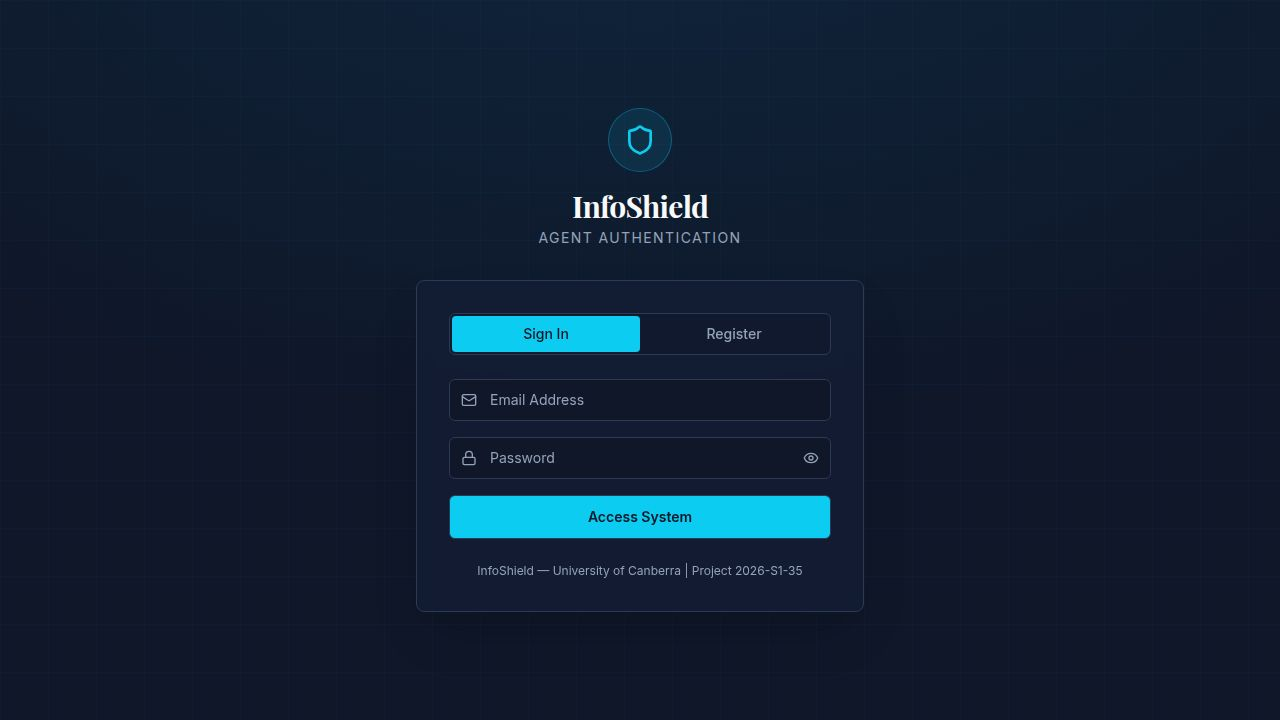
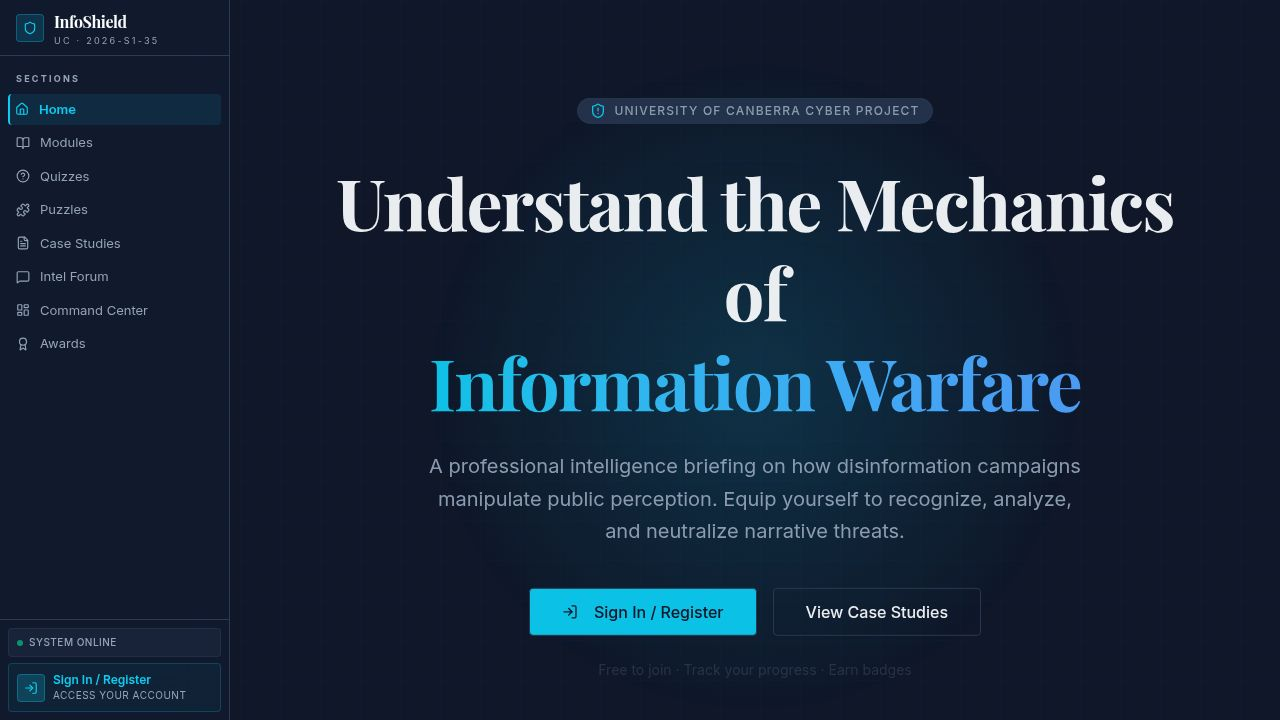
Improve site navigation and user experience after login and logout
Introduces ProtectedRoute and LoginRoute components to manage public and protected routes, enhances the logout flow to redirect to the homepage, and updates the UI to display sign-in/register buttons conditionally based on user authentication status.

Replit-Commit-Author: Agent
Replit-Commit-Session-Id: bca3b0d5-7d97-47e2-96dc-7218d6a71f5b
Replit-Commit-Checkpoint-Type: full_checkpoint
Replit-Commit-Event-Id: e5b60c7b-d891-45f0-8d0b-c776ffcf365e
Replit-Commit-Screenshot-Url: https://storage.googleapis.com/screenshot-production-us-central1/49ae401a-f266-451a-bbe1-749c253e7e28/bca3b0d5-7d97-47e2-96dc-7218d6a71f5b/whDLsp3
Replit-Helium-Checkpoint-Created: true

diff --git a/artifacts/infoshield/src/components/layout.tsx b/artifacts/infoshield/src/components/layout.tsx
@@ -13,6 +13,7 @@ import {
   Puzzle,
   LogOut,
   ChevronDown,
+  LogIn,
 } from "lucide-react";
 import { useState } from "react";
 import { motion, AnimatePresence } from "framer-motion";
@@ -33,9 +34,16 @@ const NAV_ITEMS = [
 function UserMenu() {
   const { user, logout } = useAuth();
   const [open, setOpen] = useState(false);
+  const [, navigate] = useLocation();
   if (!user) return null;
 
   const initials = user.displayName.split(" ").map((w) => w[0]).slice(0, 2).join("").toUpperCase();
+
+  const handleLogout = async () => {
+    setOpen(false);
+    await logout();
+    navigate("/");
+  };
 
   return (
     <div className="relative">
@@ -66,7 +74,7 @@ function UserMenu() {
               <p className="text-[10px] text-muted-foreground truncate">{user.email}</p>
             </div>
             <button
-              onClick={() => { logout(); setOpen(false); }}
+              onClick={handleLogout}
               className="flex items-center gap-2 w-full px-3 py-2 text-xs text-muted-foreground hover:text-destructive hover:bg-destructive/5 transition-colors"
             >
               <LogOut className="w-3.5 h-3.5" />
@@ -80,11 +88,17 @@ function UserMenu() {
 }
 
 export function Layout({ children }: { children: React.ReactNode }) {
-  const [location] = useLocation();
+  const [location, navTo] = useLocation();
   const [mobileMenuOpen, setMobileMenuOpen] = useState(false);
   const { user, logout } = useAuth();
 
   const initials = user?.displayName.split(" ").map((w) => w[0]).slice(0, 2).join("").toUpperCase() ?? "?";
+
+  const handleMobileLogout = async () => {
+    setMobileMenuOpen(false);
+    await logout();
+    navTo("/");
+  };
 
   return (
     <div className="min-h-[100dvh] flex w-full bg-background text-foreground overflow-hidden">
@@ -138,7 +152,21 @@ export function Layout({ children }: { children: React.ReactNode }) {
               <span className="text-[10px] font-medium text-muted-foreground uppercase tracking-wider">System Online</span>
             </div>
           </div>
-          <UserMenu />
+          {user ? (
+            <UserMenu />
+          ) : (
+            <Link href="/login">
+              <button className="flex items-center gap-2 px-2 py-2 rounded-sm hover:bg-primary/10 transition-colors w-full text-left group border border-primary/20 bg-primary/5">
+                <div className="w-7 h-7 rounded-sm bg-primary/20 border border-primary/30 flex items-center justify-center shrink-0">
+                  <LogIn className="w-3.5 h-3.5 text-primary" />
+                </div>
+                <div className="flex-1 min-w-0">
+                  <p className="text-xs font-semibold text-primary">Sign In / Register</p>
+                  <p className="text-[10px] text-muted-foreground uppercase tracking-wider">Access your account</p>
+                </div>
+              </button>
+            </Link>
+          )}
         </div>
       </aside>
 
@@ -215,13 +243,22 @@ export function Layout({ children }: { children: React.ReactNode }) {
               </nav>
 
               <div className="p-3 border-t border-border">
-                <button
-                  onClick={() => { logout(); setMobileMenuOpen(false); }}
-                  className="flex items-center gap-3 w-full px-4 py-2.5 rounded-sm text-sm text-muted-foreground hover:text-destructive hover:bg-destructive/5 transition-colors"
-                >
-                  <LogOut className="w-4 h-4" />
-                  Sign Out
-                </button>
+                {user ? (
+                  <button
+                    onClick={handleMobileLogout}
+                    className="flex items-center gap-3 w-full px-4 py-2.5 rounded-sm text-sm text-muted-foreground hover:text-destructive hover:bg-destructive/5 transition-colors"
+                  >
+                    <LogOut className="w-4 h-4" />
+                    Sign Out
+                  </button>
+                ) : (
+                  <Link href="/login" onClick={() => setMobileMenuOpen(false)}>
+                    <button className="flex items-center gap-3 w-full px-4 py-2.5 rounded-sm text-sm text-primary font-semibold bg-primary/10 border border-primary/20 hover:bg-primary/20 transition-colors">
+                      <LogIn className="w-4 h-4" />
+                      Sign In / Register
+                    </button>
+                  </Link>
+                )}
               </div>
             </motion.div>
           </>

diff --git a/artifacts/infoshield/src/App.tsx b/artifacts/infoshield/src/App.tsx
@@ -1,4 +1,4 @@
-import { Switch, Route, Router as WouterRouter } from "wouter";
+import { Switch, Route, Router as WouterRouter, useLocation } from "wouter";
 import { QueryClient, QueryClientProvider } from "@tanstack/react-query";
 import { Toaster } from "@/components/ui/toaster";
 import { TooltipProvider } from "@/components/ui/tooltip";
@@ -28,40 +28,86 @@ const queryClient = new QueryClient({
   },
 });
 
-function Router() {
+function ProtectedRoute({ component: Component }: { component: React.ComponentType }) {
   const { user, loading } = useAuth();
+  const [, navigate] = useLocation();
 
   if (loading) {
     return (
-      <div className="flex items-center justify-center h-screen bg-background">
-        <div className="flex flex-col items-center gap-4 text-muted-foreground">
-          <div className="w-10 h-10 border-2 border-primary/20 border-t-primary rounded-full animate-spin" />
-          <span className="text-xs font-medium tracking-[0.3em] uppercase text-muted-foreground">Authenticating</span>
-        </div>
+      <div className="flex items-center justify-center h-64">
+        <div className="w-8 h-8 border-2 border-primary/20 border-t-primary rounded-full animate-spin" />
       </div>
     );
   }
 
   if (!user) {
-    return <Login />;
+    navigate("/login");
+    return null;
+  }
+
+  return <Component />;
+}
+
+function LoginRoute() {
+  const { user, loading } = useAuth();
+  const [, navigate] = useLocation();
+
+  if (loading) {
+    return (
+      <div className="flex items-center justify-center h-screen bg-background">
+        <div className="w-8 h-8 border-2 border-primary/20 border-t-primary rounded-full animate-spin" />
+      </div>
+    );
+  }
+
+  if (user) {
+    navigate("/");
+    return null;
+  }
+
+  return <Login />;
+}
+
+function Router() {
+  const { loading } = useAuth();
+  const [location] = useLocation();
+
+  if (loading) {
+    return (
+      <div className="flex items-center justify-center h-screen bg-background">
+        <div className="flex flex-col items-center gap-4">
+          <div className="w-10 h-10 border-2 border-primary/20 border-t-primary rounded-full animate-spin" />
+          <span className="text-xs font-medium tracking-[0.3em] uppercase text-muted-foreground">Loading...</span>
+        </div>
+      </div>
+    );
+  }
+
+  // Login page renders without sidebar layout
+  if (location === "/login") {
+    return <LoginRoute />;
   }
 
   return (
     <Layout>
       <Switch>
+        {/* Public routes */}
         <Route path="/" component={Home} />
-        <Route path="/learn" component={Learn} />
-        <Route path="/learn/:moduleId" component={ModuleDetail} />
-        <Route path="/learn/:moduleId/lesson/:lessonId" component={LessonDetail} />
-        <Route path="/quiz" component={QuizHub} />
-        <Route path="/quiz/:quizId" component={QuizDetail} />
-        <Route path="/puzzles" component={PuzzlesPage} />
-        <Route path="/dashboard" component={Dashboard} />
-        <Route path="/badges" component={Badges} />
         <Route path="/case-studies" component={CaseStudies} />
         <Route path="/case-studies/:slug" component={CaseStudyDetail} />
         <Route path="/forum" component={Forum} />
         <Route path="/forum/:postId" component={ForumPostDetail} />
+
+        {/* Protected routes — redirect to /login if not authenticated */}
+        <Route path="/learn" component={() => <ProtectedRoute component={Learn} />} />
+        <Route path="/learn/:moduleId" component={() => <ProtectedRoute component={ModuleDetail} />} />
+        <Route path="/learn/:moduleId/lesson/:lessonId" component={() => <ProtectedRoute component={LessonDetail} />} />
+        <Route path="/quiz" component={() => <ProtectedRoute component={QuizHub} />} />
+        <Route path="/quiz/:quizId" component={() => <ProtectedRoute component={QuizDetail} />} />
+        <Route path="/puzzles" component={() => <ProtectedRoute component={PuzzlesPage} />} />
+        <Route path="/dashboard" component={() => <ProtectedRoute component={Dashboard} />} />
+        <Route path="/badges" component={() => <ProtectedRoute component={Badges} />} />
+
         <Route component={NotFound} />
       </Switch>
     </Layout>

diff --git a/artifacts/infoshield/src/pages/home.tsx b/artifacts/infoshield/src/pages/home.tsx
@@ -1,10 +1,12 @@
 import { motion } from "framer-motion";
 import { useGetGlobalStats, getGetGlobalStatsQueryKey } from "@workspace/api-client-react";
-import { ShieldAlert, Users, Award, Target, ArrowRight, type LucideIcon } from "lucide-react";
+import { ShieldAlert, Users, Award, Target, ArrowRight, type LucideIcon, LogIn } from "lucide-react";
 import { Link } from "wouter";
 import { Button } from "@/components/ui/button";
+import { useAuth } from "@/context/auth";
 
 export function Home() {
+  const { user } = useAuth();
   const { data: stats, isLoading } = useGetGlobalStats({
     query: { queryKey: getGetGlobalStatsQueryKey() }
   });
@@ -36,18 +38,47 @@ export function Home() {
           </p>
           
           <div className="flex flex-col sm:flex-row items-center justify-center gap-4">
-            <Link href="/learn">
-              <Button size="lg" className="h-12 px-8 text-base font-medium rounded-sm w-full sm:w-auto">
-                Begin Briefing
-                <ArrowRight className="ml-2 w-5 h-5" />
-              </Button>
-            </Link>
-            <Link href="/case-studies">
-              <Button size="lg" variant="outline" className="h-12 px-8 text-base font-medium rounded-sm w-full sm:w-auto border-border hover:bg-secondary">
-                View Case Studies
-              </Button>
-            </Link>
+            {user ? (
+              <>
+                <Link href="/learn">
+                  <Button size="lg" className="h-12 px-8 text-base font-medium rounded-sm w-full sm:w-auto">
+                    Continue Briefing
+                    <ArrowRight className="ml-2 w-5 h-5" />
+                  </Button>
+                </Link>
+                <Link href="/dashboard">
+                  <Button size="lg" variant="outline" className="h-12 px-8 text-base font-medium rounded-sm w-full sm:w-auto border-border hover:bg-secondary">
+                    Command Center
+                  </Button>
+                </Link>
+              </>
+            ) : (
+              <>
+                <Link href="/login">
+                  <Button size="lg" className="h-12 px-8 text-base font-medium rounded-sm w-full sm:w-auto">
+                    <LogIn className="mr-2 w-5 h-5" />
+                    Sign In / Register
+                  </Button>
+                </Link>
+                <Link href="/case-studies">
+                  <Button size="lg" variant="outline" className="h-12 px-8 text-base font-medium rounded-sm w-full sm:w-auto border-border hover:bg-secondary">
+                    View Case Studies
+                  </Button>
+                </Link>
+              </>
+            )}
           </div>
+
+          {!user && (
+            <motion.p
+              initial={{ opacity: 0 }}
+              animate={{ opacity: 1 }}
+              transition={{ delay: 0.6 }}
+              className="mt-6 text-sm text-muted-foreground"
+            >
+              Free to join · Track your progress · Earn badges
+            </motion.p>
+          )}
         </motion.div>
       </section>
 
